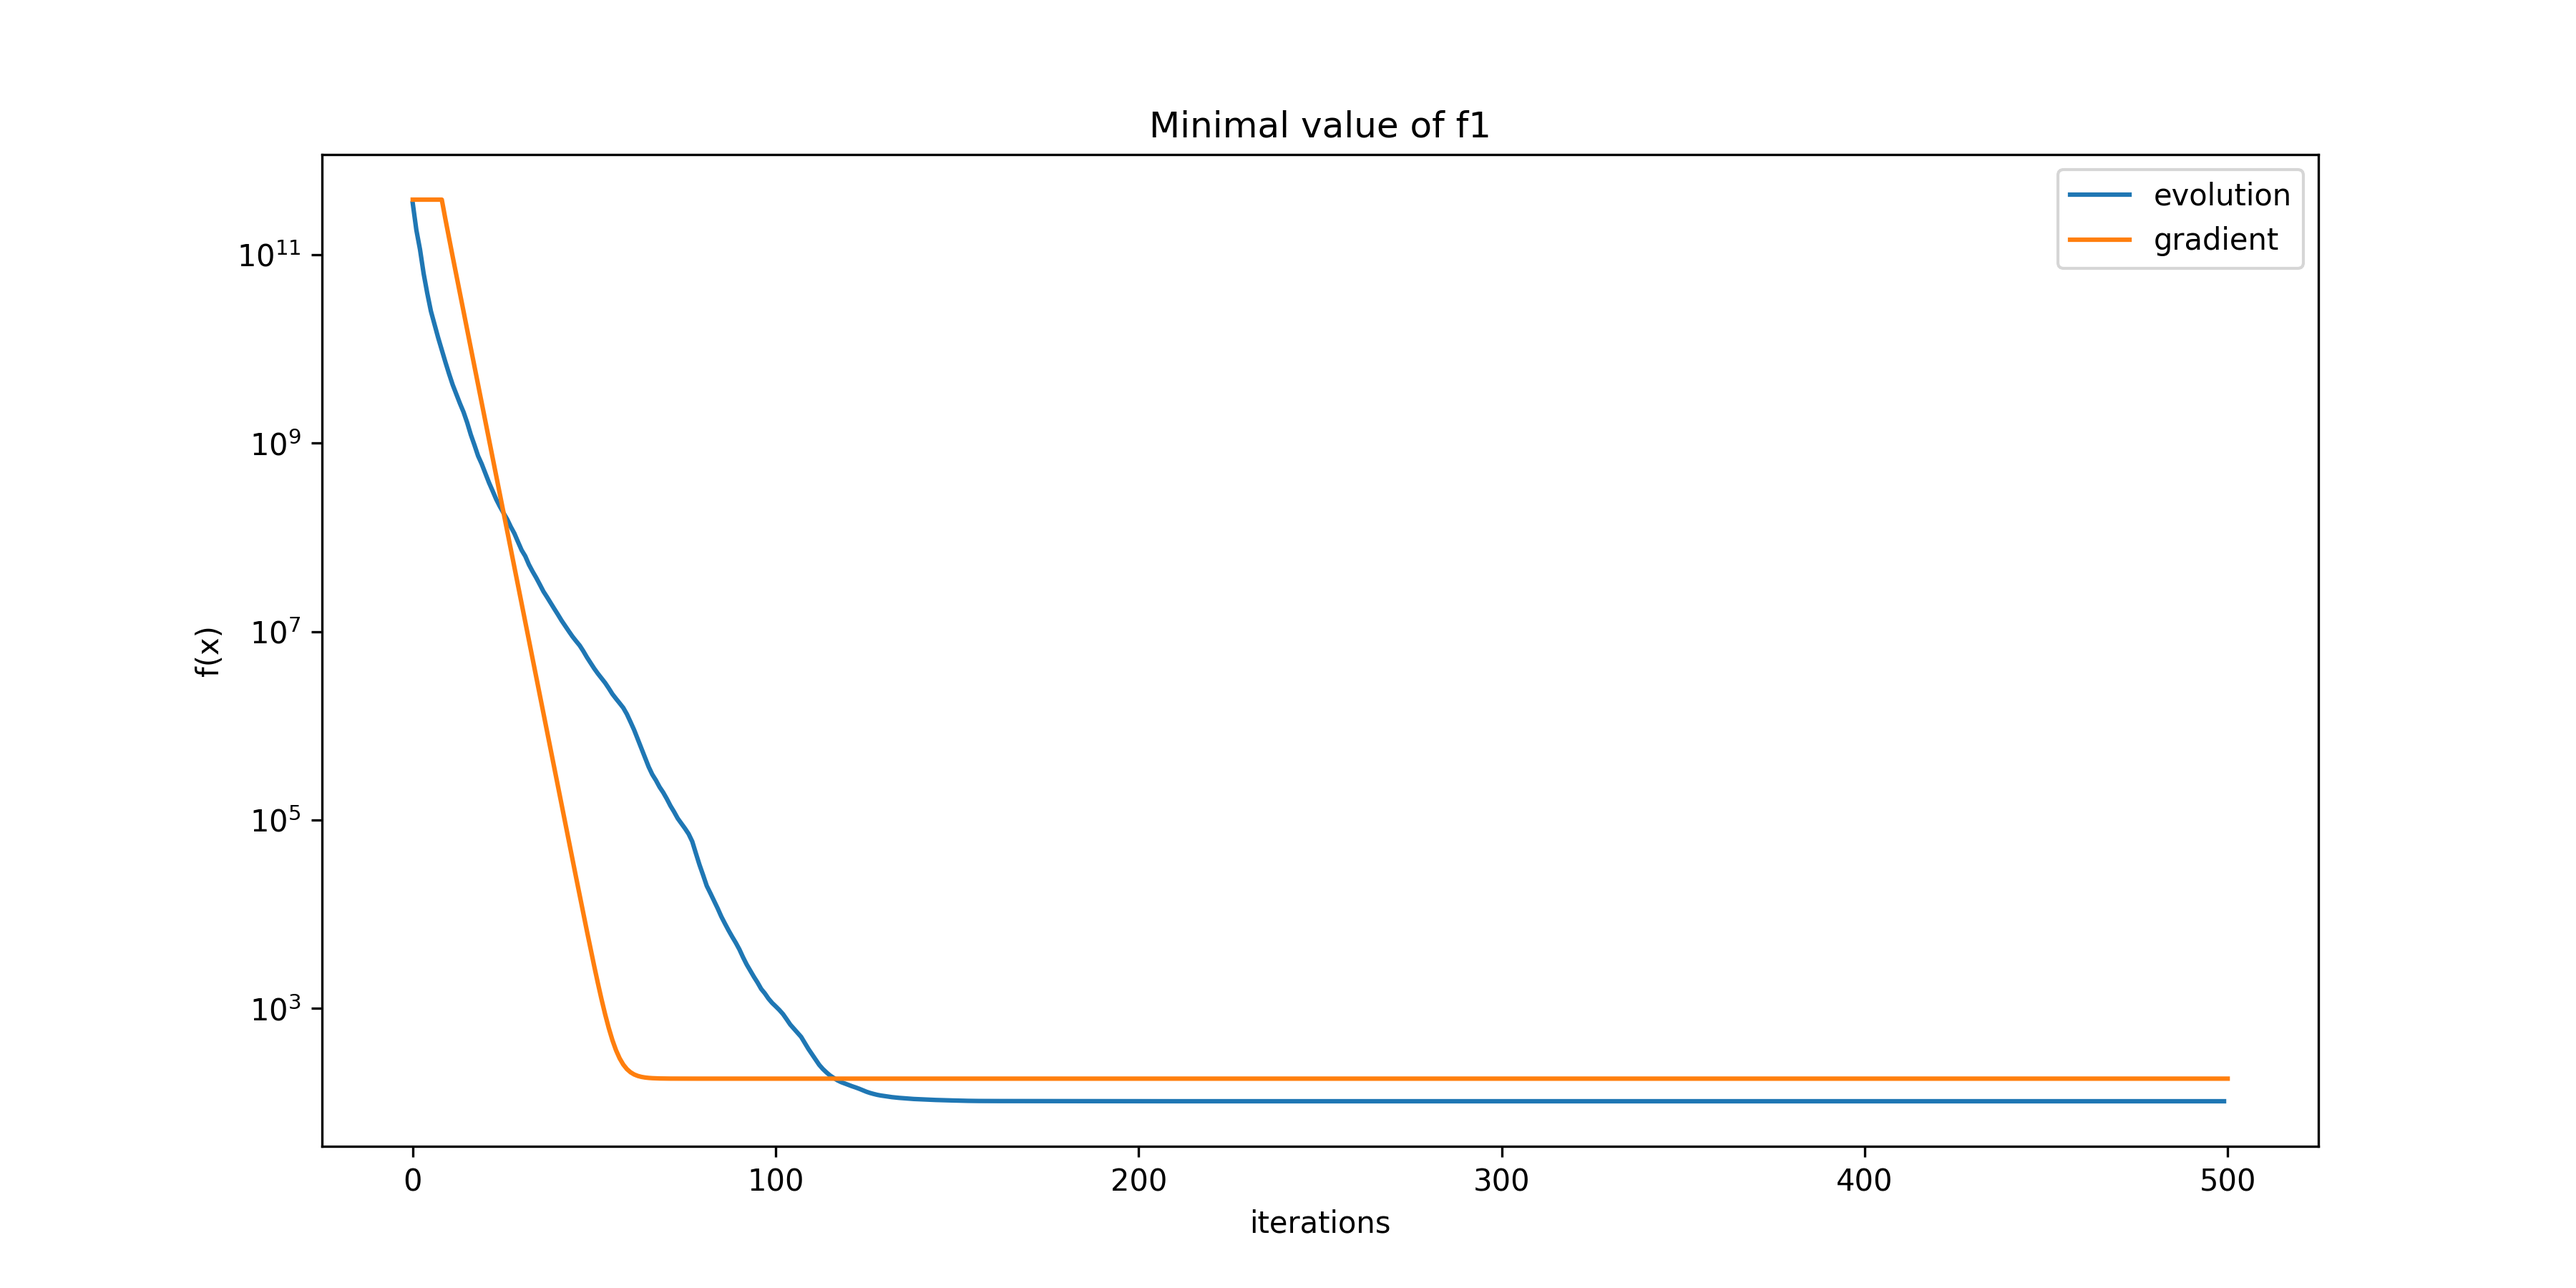
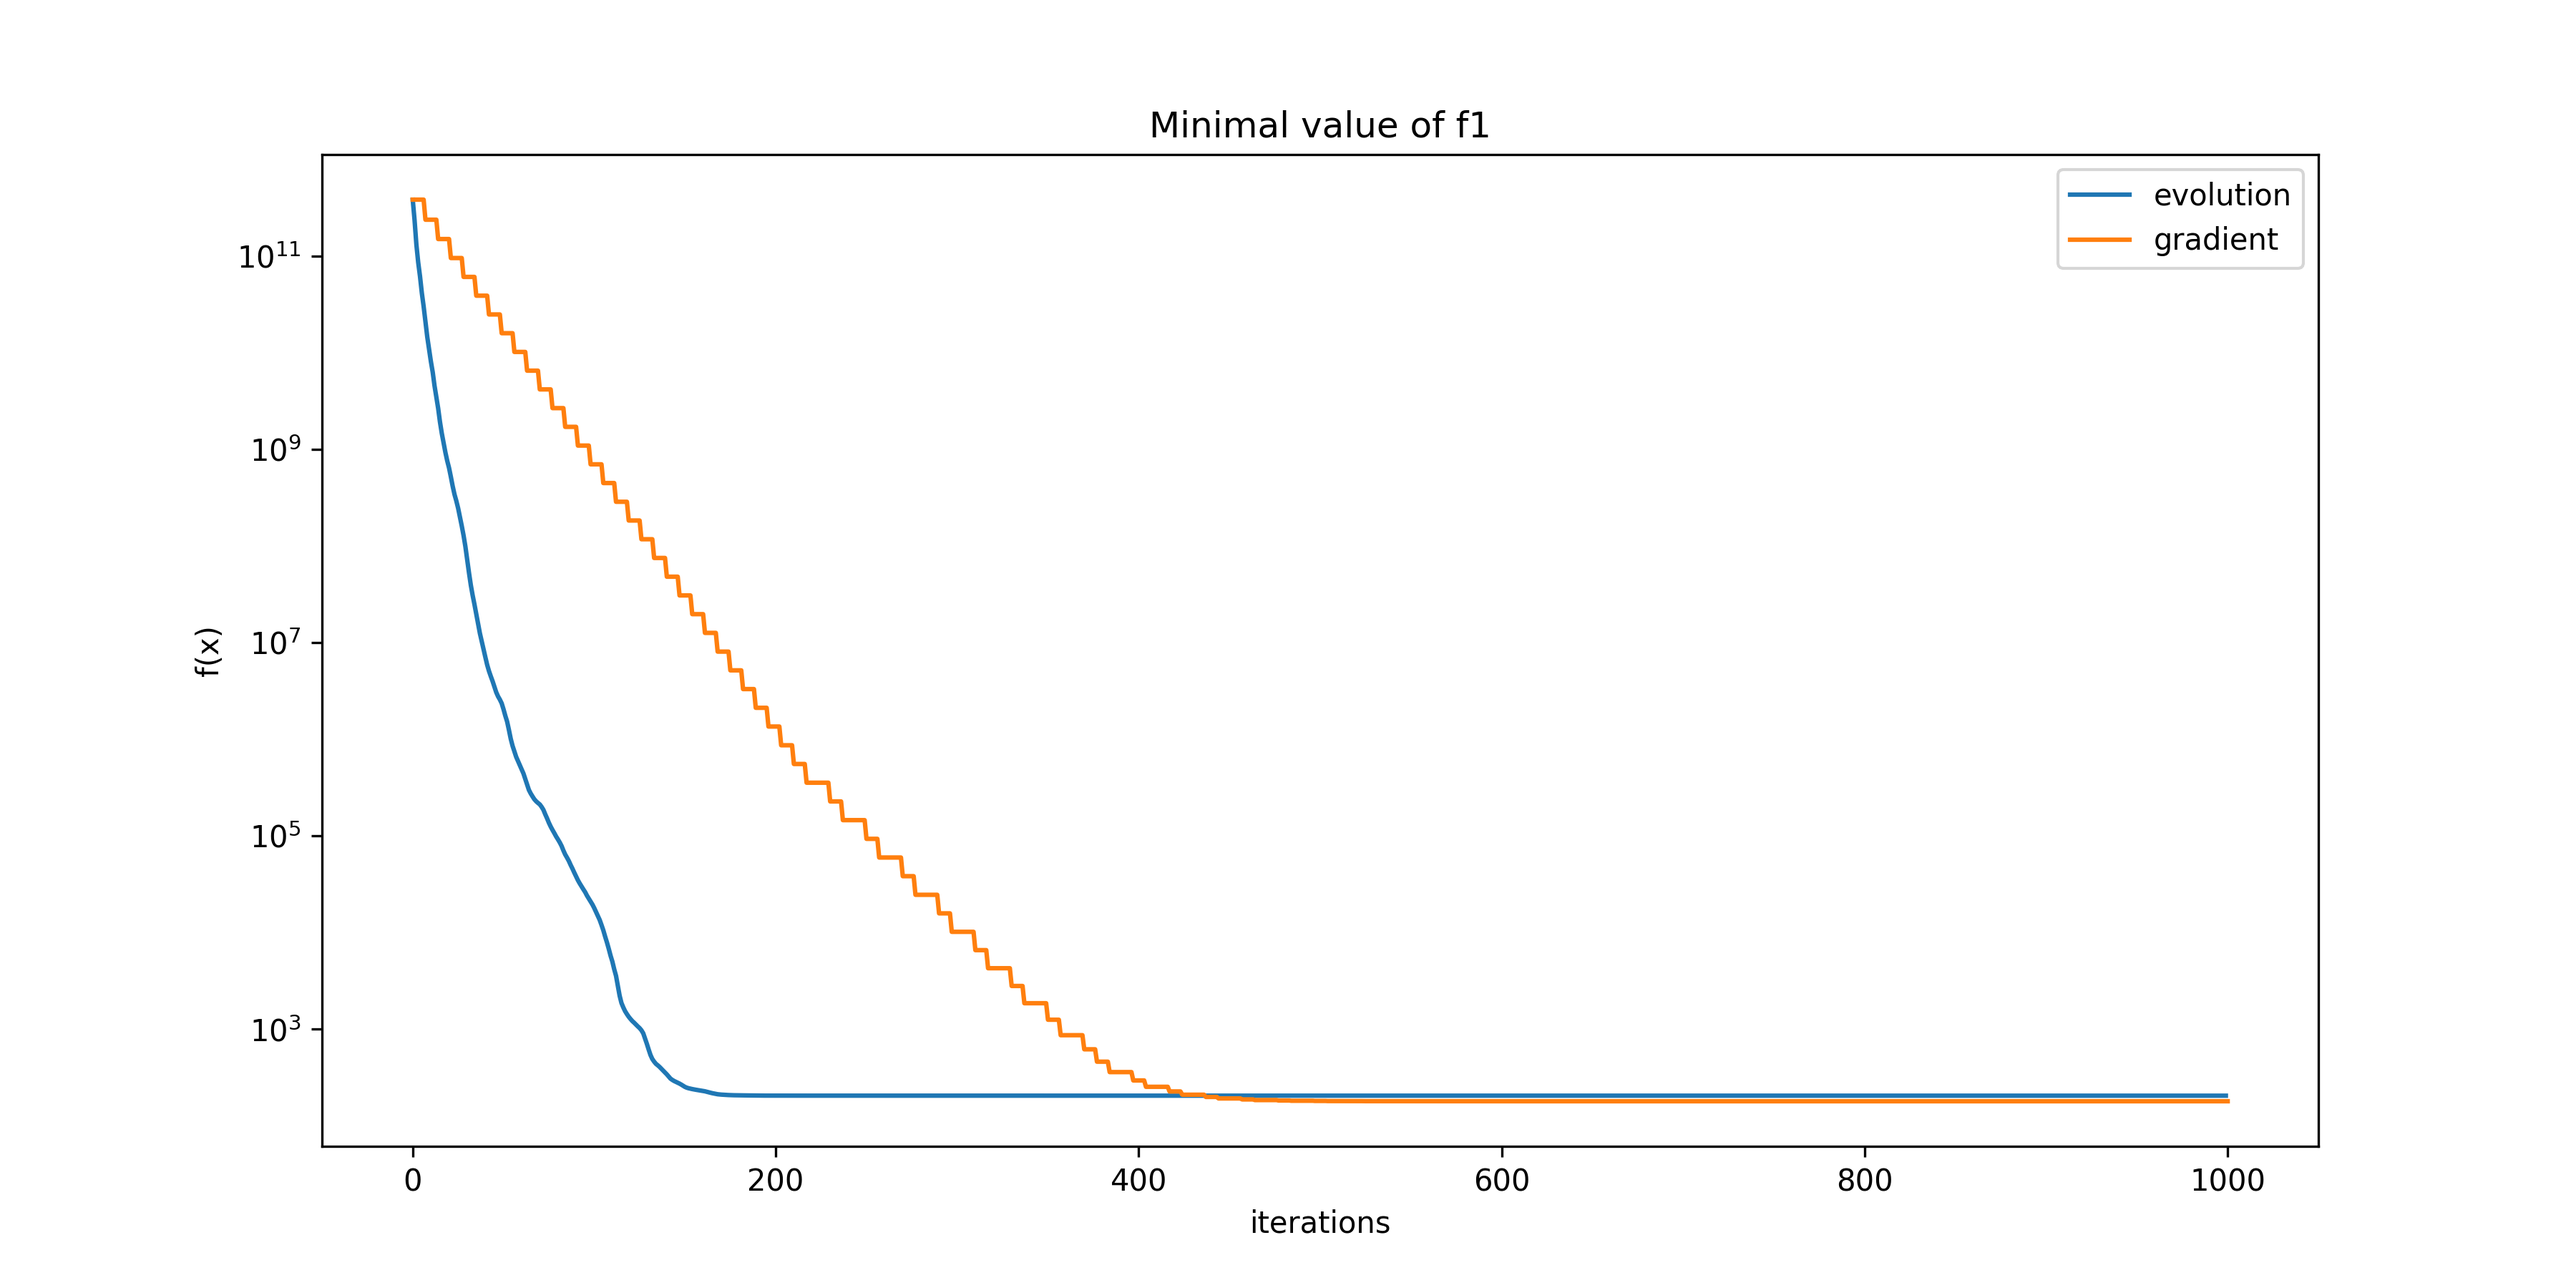
slight refractoring

diff --git a/evolution/evolutionStrategy.py b/evolution/evolutionStrategy.py
@@ -13,41 +13,44 @@ def reproduction(population, reproductionSize):
 def generatePopulation(f, dimensions, populationSize, mutationForce):
     population = []
     for _ in range(populationSize):
-        x = np.random.uniform(-100, 100, size=dimensions)
-        y = np.array([mutationForce] * dimensions)
-        population.append((x, y, f(x)))
+        mainChromosome = np.random.uniform(-100, 100, size=dimensions)
+        mutationChromosome = np.array([mutationForce] * dimensions)
+        population.append((mainChromosome, mutationChromosome, f(mainChromosome)))
     return population
+
 
 def criscross(population, f):
     newPopulation = []
     for _ in range(len(population)):
         mother, father = random.choices(population, k=2)
-        gene = []
+        mainChromosome = []
         for i in range(len(mother[0])):
             weight = np.random.uniform()
-            gene.append(mother[0][i] * weight + father[0][i] * (1 - weight))
-        newPopulation.append((np.array(gene), mother[1], f(np.array(gene))))
+            mainChromosome.append(mother[0][i] * weight + father[0][i] * (1 - weight))
+        newPopulation.append((np.array(mainChromosome), mother[1], f(np.array(mainChromosome))))
     return newPopulation
+
 
 def mutation(population, f):
     newPopulation = []
     for specimen in population:
         a = np.random.normal()
-        gene, mutationGene = [], []
+        mainChromosome, mutationChromosome = [], []
         for i in range(len(specimen[0])):
             b = np.random.normal()
             r1 = 1/math.sqrt(2 * len(specimen[0]))
             r2 = 1/math.sqrt(2 * math.sqrt(len(specimen[0])))
             mutationVar = specimen[1][i] * math.exp(r2 * a + r1 * b)
-            gene.append(specimen[0][i] + mutationVar * np.random.normal())
-            mutationGene.append(mutationVar)
-        newPopulation.append((np.array(gene), np.array(mutationGene), f(np.array(gene))))
+            mainChromosome.append(specimen[0][i] + mutationVar * np.random.normal())
+            mutationChromosome.append(mutationVar)
+        newPopulation.append((np.array(mainChromosome), np.array(mutationChromosome), f(np.array(mainChromosome))))
     return newPopulation
+
 
 def evolution(f, mutationForce, populationSize, reproductionSize, days, dimensions):
     population = generatePopulation(f, dimensions, populationSize, mutationForce)
     bestSpecimens = []
-    for _ in range(days):
+    for _ in range(days + 1):
         reproducedPopulation = reproduction(population, reproductionSize)
         criscrossedPopulation = criscross(reproducedPopulation, f)
         mutatedPopulation = mutation(criscrossedPopulation, f)

diff --git a/gradientDescent/gradient_descent.py b/gradientDescent/gradient_descent.py
@@ -24,13 +24,14 @@ def gradientDescent(f, x0, lengthFactor, maxSteps):
         gradValue = gradFunc(old_x)
         new_x = old_x - (gradValue * localLengthFactor)
         new_value = f(new_x)
-        if np.linalg.norm(gradValue) <= lengthFactor * 0.1:
-            return f(new_x), iterationValues 
+        #if np.linalg.norm(gradValue) <= lengthFactor * 0.1:
+        #    return f(new_x), iterationValues 
         if new_value >= old_value:
             localLengthFactor = localLengthFactor * 0.1
         else:
             old_x = new_x
             old_value = f(old_x)
+            localLengthFactor = lengthFactor
         iterationValues.append(old_value)
     return f(new_x), iterationValues    
 

diff --git a/cecExperiment.py b/cecExperiment.py
@@ -6,13 +6,13 @@ import numpy as np
 import os
 
 testFunctions = [("f1", f1), ("f9", f9)]
-mutationForce = 2
+mutationForce = 10
 populationSize = 100
 reproductionSize = 200
-days = 500
+days = 1000
 dimensions = 10
 initialCoords = np.array([10.0, 20.0, 30.0, 40.0, 50.0, 10.0, 20.0, 30.0, 40.0, 50.0])
-lengthFactor = 1
+lengthFactor = 0.01
 
 if not os.path.isdir("cecGraphs"):
     os.makedirs("cecGraphs")
@@ -30,3 +30,4 @@ for fTuple in testFunctions:
     ax.legend()
     ax.set_title(f"Minimal value of {name}")
     fig.savefig(f"cecGraphs/{name}")
+    plt.show()
